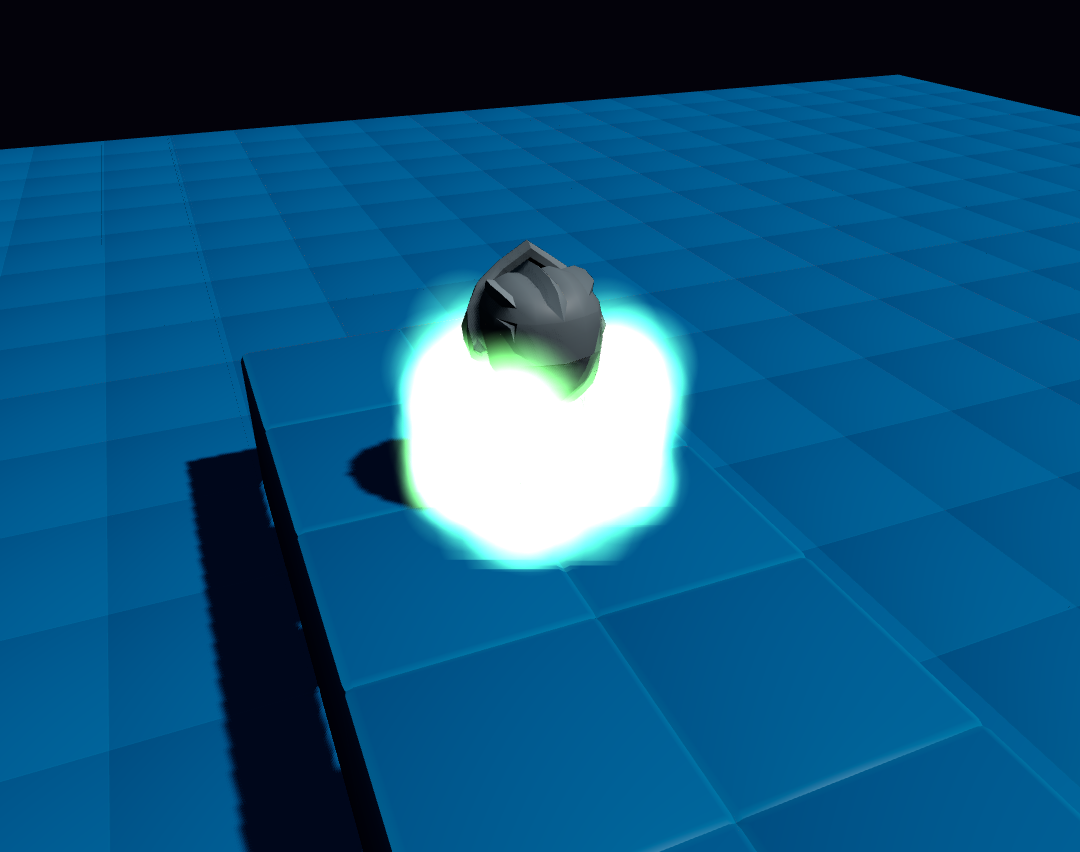
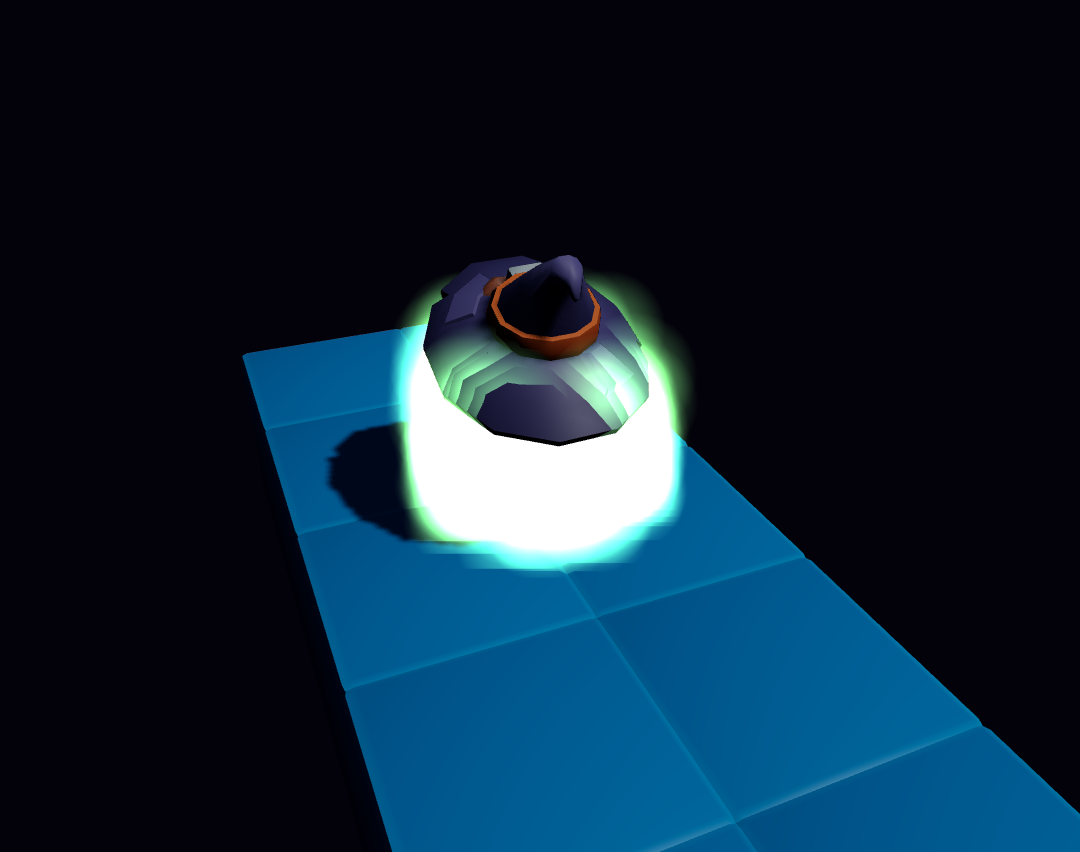
feat(renderer): remove default <Floor>; maps are the only visible content
Scene used to render a hard-coded gridSize × gridSize blue platform
(Floor.tsx) under the per-map <ObjectInstances>. Authors saw a
stripe of "default" cubes peeking around the edges of their own
maps and thought map switching was broken — really, two platforms
were stacking. Delete Floor entirely; ObjectInstances (driven by
state.worldObjects from the Map Editor) is now the only visible
world content.

Knock-on cleanup: drop stoneLayers from WorldRendererSettings /
WorldRendererViewConfig / WORLD config (only Floor consumed it).
gridSize stays — still drives the invisible <FloorColliders>
perimeter and the shadow-camera clamp; doc updated to reflect that
narrowed role. Re-captured docs/debug-map-switch PNGs.

diff --git a/packages/world/src/renderer/Scene.tsx b/packages/world/src/renderer/Scene.tsx
@@ -14,7 +14,6 @@ import type {
   SnapshotHandshake,
 } from '@officexr/sdk';
 import type { BotPool } from '../bot/BotPool.ts';
-import { Floor } from './Floor.tsx';
 import { Players } from './Players.tsx';
 import { CameraRig } from './CameraRig.tsx';
 import { SceneFrame } from './SceneFrame.tsx';
@@ -300,16 +299,16 @@ export function Scene(props: SceneProps) {
           bottomColor={background.bottomColor}
         />
 
-        <Floor gridSize={world.gridSize} stoneLayers={world.stoneLayers} />
-
-        {/* Per-map cubes. Subscribes to `state.worldObjects` — the
-            picker pushes a fresh WorldObjects snapshot via
-            `actions.setWorldObjects(compileMap(...))` on every map
-            switch, and this re-renders one InstancedMesh per cube
-            kind in response. Without this mount nothing visualises
-            the picker's data, which the user noticed: the player
-            teleported between spawns but the surrounding cube field
-            stayed identical because there was no cube field at all. */}
+        {/* Per-map cubes — the ONLY visible world content. The Map
+            Editor is the source of truth; the picker pushes a fresh
+            WorldObjects snapshot via `actions.setWorldObjects(
+            compileMap(...))` on every map switch, and this
+            re-renders one InstancedMesh per cube kind in response.
+            The legacy `<Floor>` (a default 27×27 blue platform
+            rendered underneath these cubes) was removed because it
+            visually competed with map-authored content — authors saw
+            a stripe of "default" cubes peeking around the edges of
+            their own map and assumed map switching was broken. */}
         <ObjectInstances store={store} />
 
         <Players

diff --git a/packages/studio/src/panels/world/types.ts b/packages/studio/src/panels/world/types.ts
@@ -95,8 +95,12 @@ export interface FixedCameraSettings {
 }
 
 export interface WorldRendererSettings {
+  /** Side length (in cubes) of the invisible perimeter wall collider
+   * that bounds the playable area. The visible `<Floor>` was deleted
+   * — Map Editor maps are the only visible content. `gridSize` is
+   * kept purely for `<FloorColliders>` + shadow-camera clamping; no
+   * UI exposes it anymore. */
   gridSize: number;
-  stoneLayers: number;
 }
 
 export interface BotSettings {
@@ -170,13 +174,14 @@ export const DEFAULT_VIEW_CONFIG: ViewConfig = {
     movementYawOffsetDeg: 0,
   },
   world: {
-    // Floor + wall collider extent. The default platform map is
-    // 25×25 cubes; we keep one cube of margin on each side (27)
-    // so the player can stand at the edge of the platform without
+    // Invisible perimeter wall extent. The default platform map is
+    // 25×25 cubes; we keep one cube of margin on each side (27) so
+    // the player can stand at the edge of the platform without
     // intersecting the FloorColliders wall. There's no longer a
-    // panel to tweak these — maps are the source of truth.
+    // panel to tweak this — maps are the source of truth for
+    // visible content; this just bounds the playable area for
+    // physics + the shadow camera.
     gridSize: 27,
-    stoneLayers: 0,
   },
   bot: {
     count: 1,

diff --git a/packages/world/src/renderer/config.ts b/packages/world/src/renderer/config.ts
@@ -1,16 +1,18 @@
 /**
  * World/scene defaults for the debug-app.
  *
- * Tweak `WORLD.gridSize` to change the floor footprint. The renderer rebuilds
- * its instanced cube buffers when this changes.
+ * `WORLD.gridSize` now only sizes the invisible perimeter wall
+ * collider (`<FloorColliders>`) and the shadow-camera clamp. The
+ * previously visible default `<Floor>` was deleted — Map Editor maps
+ * are the only source of visible cubes.
  */
 export const CUBE_SIZE = 2; // KayKit BlockBits cubes are 2×2×2 units
 
 export const WORLD = {
-  /** Floor side length in cubes (square grid). */
+  /** Playable-area side length in cubes (square). Bounds the
+   * invisible perimeter wall collider; no longer drives any visible
+   * geometry. */
   gridSize: 50,
-  /** Number of stone layers placed beneath the surface. */
-  stoneLayers: 2,
 };
 
 export const PLAYER_HEIGHT = 1.7;

diff --git a/packages/world/src/renderer/ObjectInstances.tsx b/packages/world/src/renderer/ObjectInstances.tsx
@@ -138,9 +138,9 @@ interface KindInstanceGroupProps {
 }
 
 // KayKit BlockBits cubes have beveled corners — a slight overlap hides
-// the seams between adjacent instances, matching Floor.tsx. Kept as a
-// per-renderer constant so the catalog-side `kind.scale` stays a clean
-// "1 = no change" semantic.
+// the seams between adjacent instances. Kept as a per-renderer constant
+// so the catalog-side `kind.scale` stays a clean "1 = no change"
+// semantic.
 const SEAM_OVERLAP = 1.05;
 
 function KindInstanceGroup({ kind, instances, cubeSize }: KindInstanceGroupProps) {

diff --git a/packages/world/src/renderer/viewConfig.ts b/packages/world/src/renderer/viewConfig.ts
@@ -69,8 +69,12 @@ export interface FixedCameraViewConfig {
 }
 
 export interface WorldRendererViewConfig {
+  /** Side length (in cubes) of the invisible perimeter wall collider
+   * that bounds the playable area. Previously also drove the visible
+   * `<Floor>` platform; now only used by `<FloorColliders>` and the
+   * shadow camera clamp. Maps from the Map Editor are the source of
+   * truth for visible content. */
   gridSize: number;
-  stoneLayers: number;
 }
 
 export interface ViewConfig {

diff --git a/packages/world/src/renderer/index.ts b/packages/world/src/renderer/index.ts
@@ -10,7 +10,6 @@ export {
   type AnimationState,
 } from './Adventurer.tsx';
 export { Players } from './Players.tsx';
-export { Floor } from './Floor.tsx';
 export { FloorColliders } from './FloorColliders.tsx';
 export { GradientBackground } from './GradientBackground.tsx';
 export { ProximityGlow } from './ProximityGlow.tsx';

diff --git a/docs/debug-map-switch/README.md b/docs/debug-map-switch/README.md
@@ -1,15 +1,18 @@
 # Debug map-switch screenshots
 
 Captured via Playwright + `gl.readPixels` against the actual WebGL
-framebuffer in `tests/playwright/debug-mode.spec.ts` (the "Map switch
-in Debug actually changes the rendered world" test). Two frames:
+framebuffer. Two frames:
 
 1. `1-default.png` — `default` map loaded. Shows the 25×25 blue
-   platform around the player at (12, 2, 12).
+   platform around the player at (12, 2, 12) on an otherwise empty
+   sky.
 2. `2-long_corridor.png` — switched to `long_corridor`. Shows the
    smaller corridor cube cluster at the new spawn (-7, 2, -1).
 
-These were captured after the `ObjectInstances` mount fix — Scene
-wasn't actually rendering the per-map cubes at all before, which is
-why earlier screenshots only showed the player teleporting against
-an unchanged backdrop.
+History: these were re-captured after the default `<Floor>` (the
+hard-coded 27×27 blue platform that Scene used to render
+underneath ObjectInstances) was deleted. Earlier screenshots showed
+the map content stacked on top of that default Floor — which the
+user noticed because there was a stripe of "default" cubes around
+the edge of every authored map. With Floor gone, Map Editor maps
+are the only visible content.
